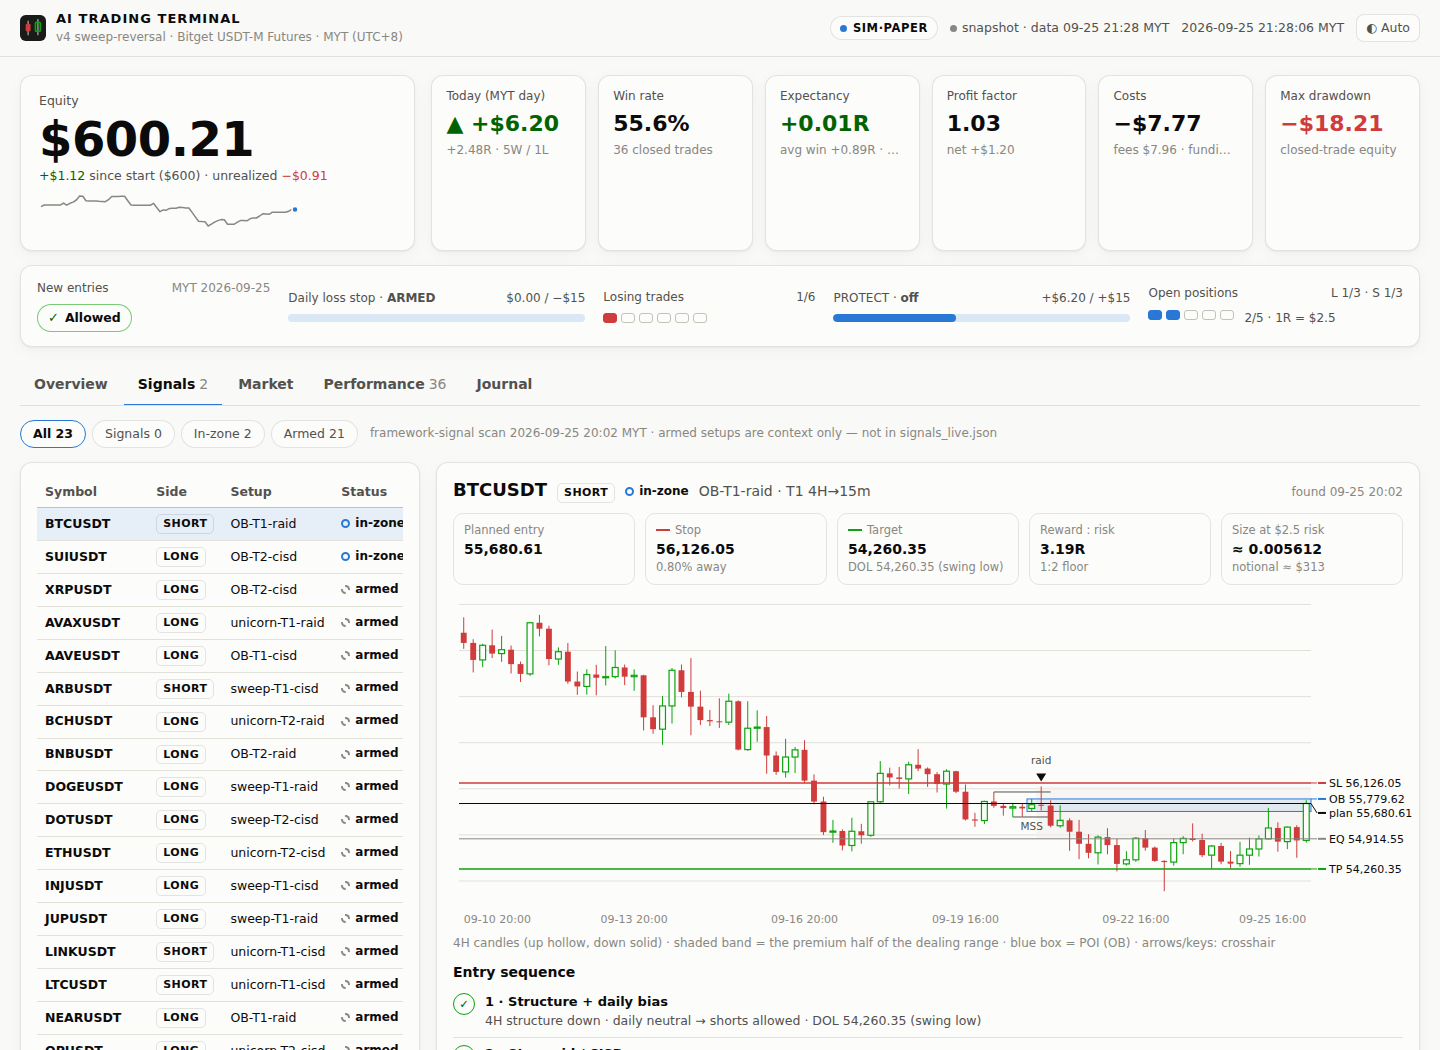
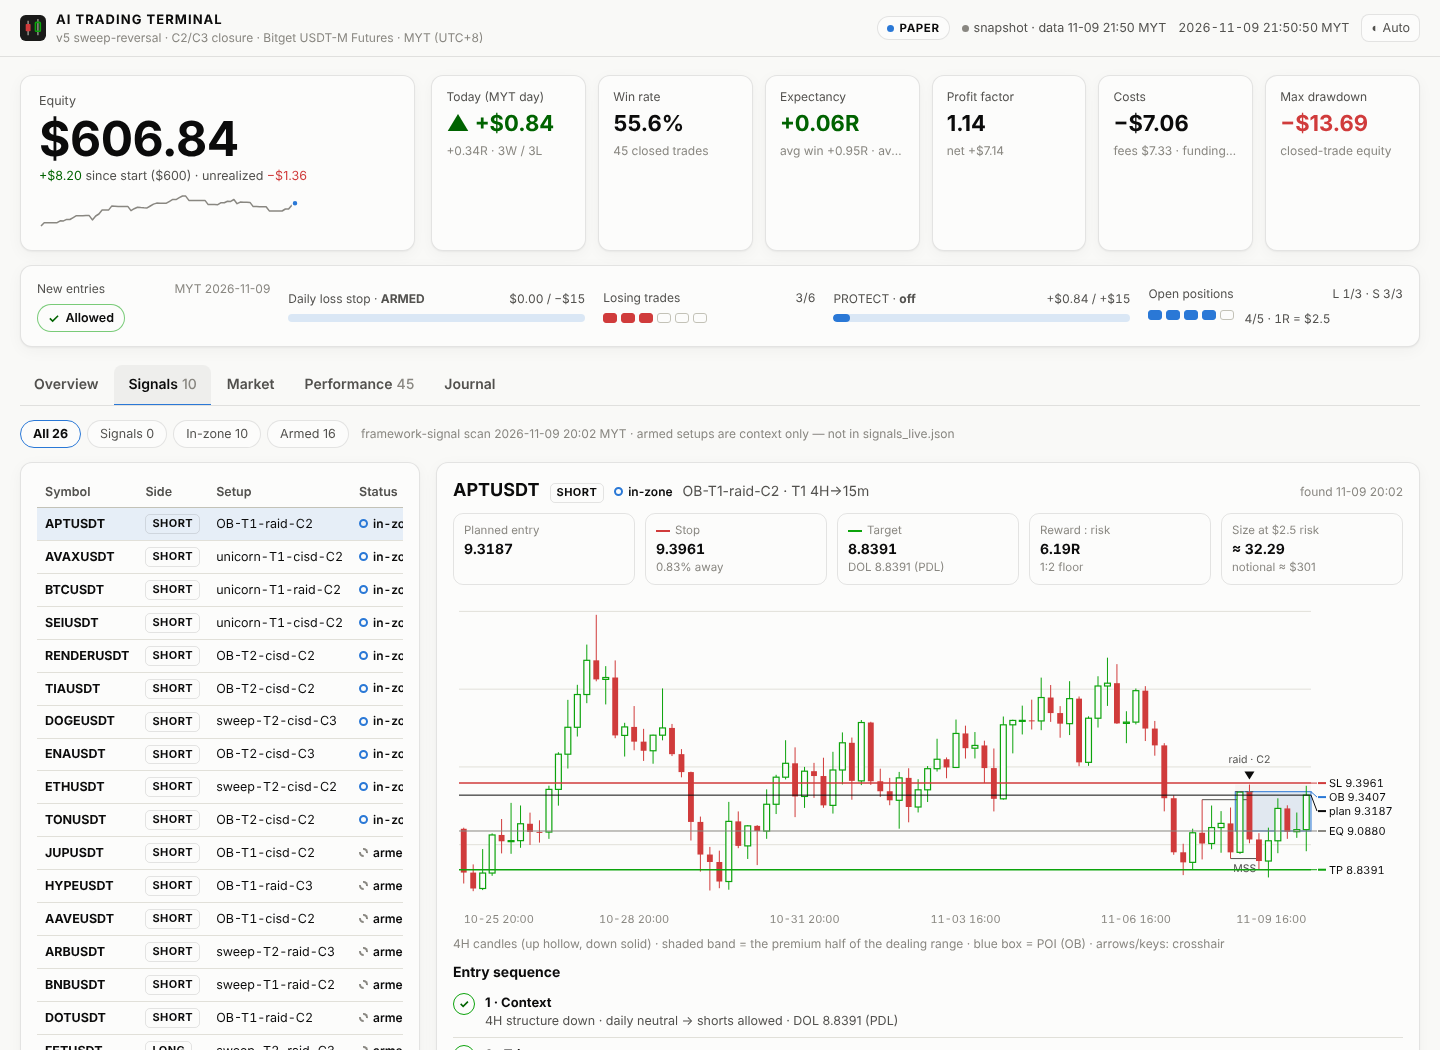
Refresh dashboard screenshots for v5 and add the journal screenshot
Claude-Session: https://claude.ai/code/session_017b9AK7aneFVT5yEBamdJf3

diff --git a/README.md b/README.md
@@ -145,6 +145,11 @@ single function, so it's easy to change.
 
 ## Files and outputs
 
+The daily journal (`journal/YYYY-MM-DD.html`, also in the dashboard's Journal tab) follows the journal
+design: At a glance (total P&L, entries), then the trade log with net P&L per trade.
+
+![Daily journal](docs/journal.png)
+
 ```
 run_bot.py          jobs, daemon, replay, CLI          strategy.py      the v5 engine
 paper_bot.py        protection shell + R-ladder         sweep_screen.py  Module A
